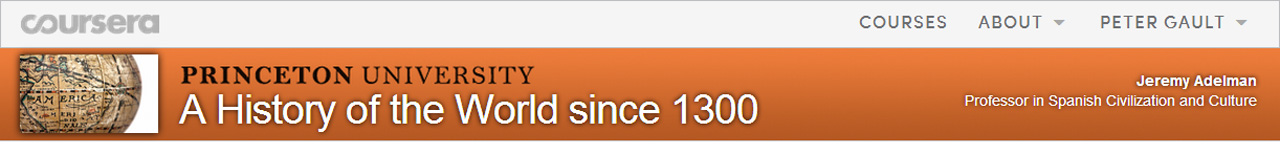
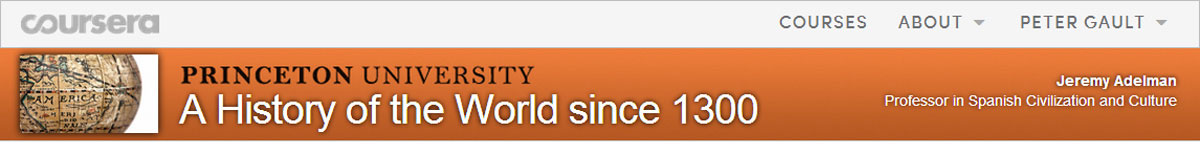
update layout

diff --git a/app/assets/stylesheets/bootstrap_overrides/_variables.scss b/app/assets/stylesheets/bootstrap_overrides/_variables.scss
@@ -245,33 +245,9 @@ $popoverArrowOuterColor:  rgba(0,0,0,.25) !default;
 // --------------------------------------------------
 
 
-// Default 940px grid
+// Default 1199px grid
 // -------------------------
 $gridColumns:             12 !default;
-$gridColumnWidth:         60px !default;
-$gridGutterWidth:         20px !default;
+$gridColumnWidth:         78px !default;
+$gridGutterWidth:         24px !default;
 $gridRowWidth:            ($gridColumns * $gridColumnWidth) + ($gridGutterWidth * ($gridColumns - 1)) !default;
-
-// 1200px min
-$gridColumnWidth1200:     70px !default;
-$gridGutterWidth1200:     30px !default;
-$gridRowWidth1200:        ($gridColumns * $gridColumnWidth1200) + ($gridGutterWidth1200 * ($gridColumns - 1)) !default;
-
-// 768px-979px
-$gridColumnWidth768:      42px !default;
-$gridGutterWidth768:      20px !default;
-$gridRowWidth768:         ($gridColumns * $gridColumnWidth768) + ($gridGutterWidth768 * ($gridColumns - 1)) !default;
-
-
-// Fluid grid
-// -------------------------
-$fluidGridColumnWidth:    percentage($gridColumnWidth/$gridRowWidth) !default;
-$fluidGridGutterWidth:    percentage($gridGutterWidth/$gridRowWidth) !default;
-
-// 1200px min
-$fluidGridColumnWidth1200:     percentage($gridColumnWidth1200/$gridRowWidth1200) !default;
-$fluidGridGutterWidth1200:     percentage($gridGutterWidth1200/$gridRowWidth1200) !default;
-
-// 768px-979px
-$fluidGridColumnWidth768:      percentage($gridColumnWidth768/$gridRowWidth768) !default;
-$fluidGridGutterWidth768:      percentage($gridGutterWidth768/$gridRowWidth768) !default;

diff --git a/app/assets/stylesheets/bootstrap_overrides/_grid.scss b/app/assets/stylesheets/bootstrap_overrides/_grid.scss
@@ -2,8 +2,8 @@
 // Grid system
 // --------------------------------------------------
 
-// Fluid (1200px min)
-@include grid-core($fluidGridColumnWidth1200, $fluidGridGutterWidth1200);
+// Fixed (940px)
+@include grid-core($gridColumnWidth, $gridGutterWidth);
 
 // Reset utility classes due to specificity
 [class*="span"].hide,

diff --git a/app/assets/stylesheets/pages.css.scss b/app/assets/stylesheets/pages.css.scss
@@ -1,9 +1,3 @@
-.main-wrap {
-  min-width: 1200px;
-  float: left;
-  margin: 0 20px;
-}
-
 article, aside {
   float: left;
 }
@@ -33,9 +27,11 @@ aside.video {
       margin: 0;
     }
   }
+
   .separator {
     width: 425px;
   }
+
   p {
     font-size: 14pt;
     padding-top: 10px;

diff --git a/app/assets/stylesheets/bootstrap_imports.css.scss b/app/assets/stylesheets/bootstrap_imports.css.scss
@@ -40,7 +40,7 @@
 
 //// Components: Nav
 @import 'bootstrap_overrides/navs';
-//@import 'bootstrap/navbar';
+@import 'bootstrap/navbar';
 //@import 'bootstrap/breadcrumbs';
 //@import 'bootstrap/pagination';
 //@import 'bootstrap/pager';

diff --git a/lib/authentication.rb b/lib/authentication.rb
@@ -1,0 +1,67 @@
+module Authentication
+  extend ActiveSupport::Concern
+
+  included do
+    helper_method :current_user, :signed_in?, :sign_out?, :admin?
+  end
+
+  def require_user
+    if signed_in? then true else redirect_to(root_path) end
+  end
+
+  def current_user
+    if session[:user_id]
+      @current_user ||= User.find(session[:user_id])
+    end
+
+    @current_user
+  rescue ActiveRecord::RecordNotFound
+    sign_out
+    nil
+  end
+
+  def sign_in user
+    session[:user_id] = user.id
+    @current_user = user
+  end
+
+  def sign_out
+    reset_session
+    remove_instance_variable :@current_user if defined?(@current_user)
+  end
+
+  def signed_in?
+    !!current_user
+  end
+
+  def signed_out?
+    !signed_in?
+  end
+
+  def signed_in!
+    return if signed_in?
+    auth_failed
+  end
+
+  def auth_failed
+    sign_out
+    session[:attempted_path] = request.fullpath
+    redirect_to new_session_path, status: :see_other
+  end
+
+  def signed_out!
+    redirect_to(root_path) if signed_in?
+  end
+
+  def admin?
+    signed_in? && current_user.role.admin?
+  end
+
+  def signed_in_path
+    session[:attempted_path] || current_user.role.admin? ? cms_path : root_path
+  end
+
+  def updated_account_path
+    root_path
+  end
+end

diff --git a/config/routes.rb b/config/routes.rb
@@ -1,5 +1,6 @@
 PGSite::Application.routes.draw do
-  resource :session
+  CMS::Routes.new(self).draw
+  HoneyAuth::Routes.new(self).draw
 
   root to: 'pages#home'
   get 'the_peculiar_institution' => 'pages#the_peculiar_institution'
